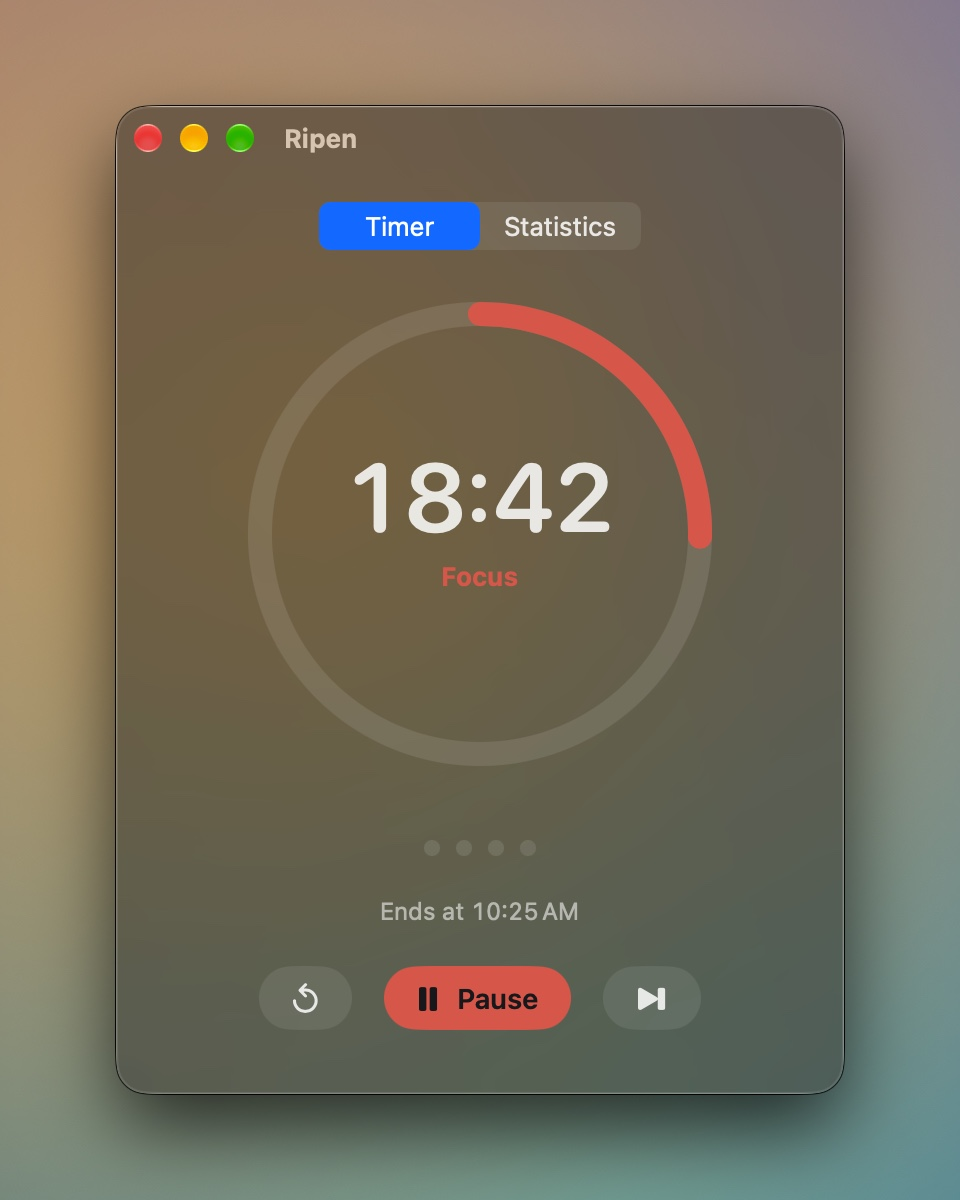
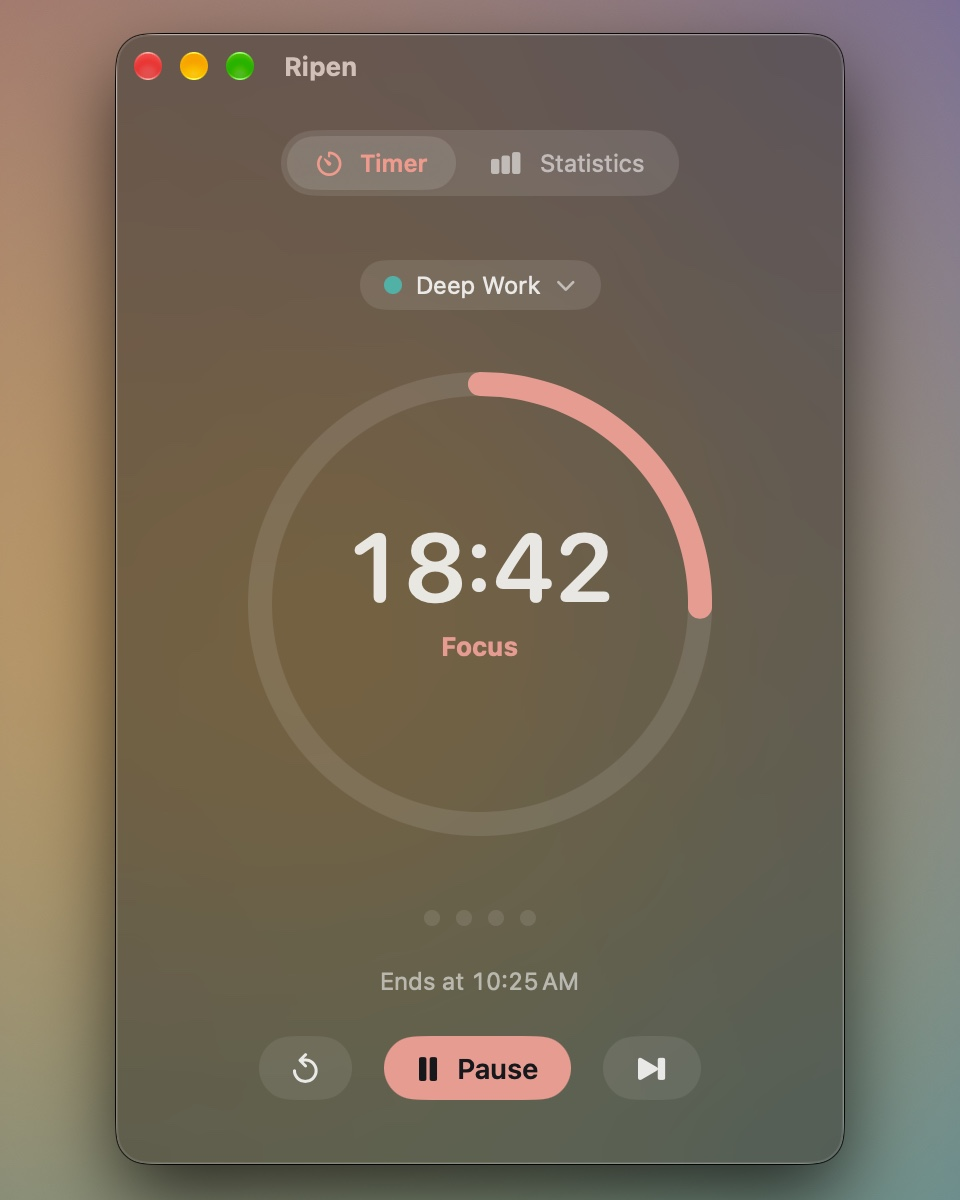
docs: refresh README features and screenshots for 0.2.0

diff --git a/README.md b/README.md
@@ -6,7 +6,7 @@
 
 **A little space for focus.**
 
-A native macOS Pomodoro timer with frosted glass, floating windows, and a home in your notch.
+A native macOS Pomodoro timer with projects, focus statistics, and a home in your notch.
 
 [![Latest release](https://img.shields.io/github/v/release/latteine1217/ripen?color=da443b)](https://github.com/latteine1217/ripen/releases/latest)
 [![macOS 14+](https://img.shields.io/badge/macOS-14%2B-000000?logo=apple&logoColor=white)](#install)
@@ -17,15 +17,51 @@ English · [繁體中文](README.zh-Hant.md)
 
 [Website (繁體中文 / English)](https://latteine1217.github.io/ripen/) · [Installation](#install) · [Features](#features) · [Releases](https://github.com/latteine1217/ripen/releases) · [Report an issue](https://github.com/latteine1217/ripen/issues)
 
-<img src="docs/images/en/showcase.png" width="1000" alt="Ripen in three presentations: the main timer window, the notch island, and an always-on-top floating window">
-
 </div>
 
-Keep your timer in view and your attention on your work. Ripen follows your focus-and-break rhythm, remembers where you put it, and keeps counting when you need a little longer. Your focus history stays on your Mac.
+> v0.2.0 is out · [Release notes](https://github.com/latteine1217/ripen/releases/tag/v0.2.0)
 
-> Download the latest version from [GitHub Releases](https://github.com/latteine1217/ripen/releases/latest). Once installed, **Check for Updates…** in the Ripen menu installs newer versions for you.
+<p align="center">
+  <img src="docs/images/en/main-white.jpg" width="560" alt="Ripen in White appearance with the Deep Work project selected">
+</p>
 
-## Highlights
+Keep your timer in view and your attention on your work. Ripen follows your focus-and-break rhythm, organizes your time by project, and turns your progress into a recap card. Your focus history stays on your Mac.
+
+## Features
+
+### Give each kind of work a project
+
+Work, reading, or something you are learning can each have a project and a color. Open the menu above the timer ring to choose a project, or type a name and choose a color to add one. Before you start, its total time and completed focus count appear below the menu.
+
+You can start with Uncategorized. Change projects during a focus to move the whole focus to the new project; a choice made during a break applies to the next focus.
+
+<p align="center">
+  <img src="docs/images/en/main.jpg" width="440" alt="Glass timer window with the Deep Work project above the ring">
+</p>
+
+### See where your time goes
+
+Statistics stacks your last seven days of focus time by project color, alongside today's focus count and minutes and each project's total. Open a project to see its total time, its last week and every completed focus, or choose a different color from the palette.
+
+If you no longer need a project, delete it from its detail page. After you confirm, its records move to Uncategorized, keeping their time and counts.
+
+<p align="center">
+  <img src="docs/images/en/stats.jpg" width="440" alt="Statistics overview with seven days of focus time by project color; demonstration data">
+  <img src="docs/images/en/project-detail.jpg" width="440" alt="Deep Work details with totals, color palette and completed focuses; demonstration data">
+  <br><sub>Illustrative focus history for demonstration, not real user data.</sub>
+</p>
+
+### Turn your progress into a recap card
+
+Every project with completed focuses, including Uncategorized, has a recap card showing total time, today's time, focus count, focus days and the last seven days. Open it from the project details, choose a square (1:1) or portrait (9:16) layout, and hide the project name if you like.
+
+Once the records are saved and their undo period has passed, save the card as a PNG, copy the image, or use the macOS share menu. Refresh the card if its records change after you open it. To post on a social platform, you can save the image and upload it yourself.
+
+<p align="center">
+  <img src="docs/images/en/recap.jpg" width="440" alt="Square recap card preview with image export controls; demonstration data">
+  <img src="docs/images/en/recap-portrait.jpg" width="440" alt="Portrait project recap card preview; demonstration data">
+  <br><sub>Recap cards use demonstration data, not real user records.</sub>
+</p>
 
 ### Shrink it to a floating window
 
@@ -46,36 +82,26 @@ Click the red button, or drag the main window up into the notch, and Ripen becom
   <img src="docs/images/en/notch-expanded.jpg" width="640" alt="Expanded notch island with controls">
 </p>
 
-### Overtime instead of interruption
+### Finish at your own pace
 
-When the countdown reaches zero, Ripen plays a sound and keeps counting as `+mm:ss` in a new color: teal for focus, orange for breaks. Press **Done** when you are ready, and the focus is recorded with its real length. For about three seconds the ring shows this focus's length and its project's total, then returns to the break as it is; until that break ends, a link beside the end time opens the project's recap card. The floating window and the notch island show the same summary in place of the time, and a small photo button after the phase name opens the card in its own window without leaving the floating window or the island. Time you spend away from your Mac is not counted as overtime.
+When the countdown reaches zero, Ripen plays a sound and keeps counting as `+mm:ss`: teal for focus, orange for breaks. Press **Done** when you are ready to record the focus's actual length. Time away from your Mac is not counted as overtime.
+
+The main window, floating window and notch island briefly show the time you just spent and your project's total. During the following break, you can open that project's recap card directly.
 
 <p align="center">
   <img src="docs/images/en/overtime.jpg" width="380" alt="Focus session in overtime showing +03:17 and a Done button">
 </p>
 
-### See your week
-
-The Statistics page shows today's focus count and minutes, a seven-day chart stacked by project color, and each project's total time. Open a project to see its totals, its last seven days and every completed focus, to pick its color from the preset palette, or to delete it; after you confirm, its focuses move to Uncategorized and keep counting there. Each project also has a recap card: its latest total, today's time, focus count, focus days and last seven days, in a square (1:1) or portrait (9:16) layout. You can hide the project name, then save the card as a PNG, copy the image, or share it through the macOS share menu once none of its focuses can still be undone. The share menu only lists services installed on your Mac; Instagram and Threads usually have none, so save or copy the image and upload it yourself. Ripen never posts for you. Everything is stored locally on your Mac.
-
-<p align="center">
-  <img src="docs/images/en/stats.jpg" width="380" alt="Statistics page with today's totals and a seven-day chart; demonstration data">
-</p>
-
-<p align="center"><sub>Illustrative focus history for demonstration, not real user data.</sub></p>
-
-## Features
+## Everyday controls and settings
 
 | Feature | Details |
 | :--- | :--- |
-| Your rhythm | 25-minute focus, 5-minute short break, 15-minute long break after every 4 focuses. Adjust each length from 1–180 minutes and the long-break interval from 1–12. |
-| Quick control | <kbd>⌥</kbd><kbd>⌘</kbd><kbd>P</kbd> to start or pause from any app, or record your own shortcut. In the main window: <kbd>⌘</kbd><kbd>S</kbd> to skip or finish, <kbd>⌘</kbd><kbd>R</kbd> to reset, <kbd>⌘</kbd><kbd>1</kbd> / <kbd>⌘</kbd><kbd>2</kbd> to switch between Timer and Statistics. Skip, reset and Done can be undone for 5 seconds from the countdown capsule or <kbd>⌘</kbd><kbd>Z</kbd>. |
-| Make it yours | Black, White, or Glass appearance; glass can follow the system or stay light or dark, with adjustable opacity and blur. System reminder sounds or silence, optional auto-start and open at login, and 12- or 24-hour end times. |
-| Projects | Pick a project from the menu above the timer ring, or add one by typing its name; each gets a color from a preset palette. Before you start, the project's total time and focus count show below the menu. Start uncategorized if you like, and change the project mid-focus to move the whole focus; a choice made during a break applies to the next focus. |
-| Always at hand | Three floating-window layouts, a notch island, and an optional menu bar countdown. |
-| A fresh start | The long-break count resets after two hours idle. |
-| Easy to learn | A short intro shows the tear-off, notch and resize gestures on first launch, with one-time tips where they apply. Replay it from Settings. |
-| Local and private | No account needed, and Ripen only goes online when you click **Check for Updates…**; a newer release is downloaded, verified against GitHub's checksum and installed only after you confirm. Focus history stays in `~/Library/Application Support/Ripen`. English and Traditional Chinese included. |
+| Your rhythm | Defaults to a 25-minute focus, a 5-minute short break and a 15-minute long break after every 4 focuses. Adjust each length from 1–180 minutes and the long-break interval from 1–12. The long-break count resets after two hours idle. |
+| Quick control | <kbd>⌥</kbd><kbd>⌘</kbd><kbd>P</kbd> to start or pause from any app, or record your own shortcut. In the main window: <kbd>⌘</kbd><kbd>S</kbd> to skip or finish, <kbd>⌘</kbd><kbd>R</kbd> to reset, <kbd>⌘</kbd><kbd>1</kbd> / <kbd>⌘</kbd><kbd>2</kbd> to switch between Timer and Statistics. |
+| Undo | Undo skip, reset or Done for 5 seconds from the countdown capsule or <kbd>⌘</kbd><kbd>Z</kbd>. |
+| Appearance and reminders | Black, White, or Glass appearance; glass can follow the system or stay light or dark, with adjustable opacity and blur. System reminder sounds or silence, an optional menu bar countdown, and 12- or 24-hour end times. |
+| Startup and guidance | Optional auto-start for the next phase and open at login. A first-launch intro shows the tear-off, notch and resize gestures; replay it from Settings. |
+| Local and private | No account needed. Focus history stays in `~/Library/Application Support/Ripen`, with English and Traditional Chinese interfaces. Ripen only goes online when you click **Check for Updates…**; updates are downloaded after confirmation and verified against GitHub's checksum before installation. |
 
 ## Install
 

diff --git a/README.zh-Hant.md b/README.zh-Hant.md
@@ -6,7 +6,7 @@
 
 **留一點空間，給專注。**
 
-原生 macOS 番茄鐘，以磨砂玻璃呈現，放在主視窗、懸浮窗，或你的螢幕瀏海。
+原生 macOS 番茄鐘，依分類累積專注，放在主視窗、懸浮窗，或你的螢幕瀏海。
 
 [![Latest release](https://img.shields.io/github/v/release/latteine1217/ripen?color=da443b)](https://github.com/latteine1217/ripen/releases/latest)
 [![macOS 14+](https://img.shields.io/badge/macOS-14%2B-000000?logo=apple&logoColor=white)](#安裝)
@@ -17,15 +17,51 @@
 
 [產品介紹（繁體中文 / English）](https://latteine1217.github.io/ripen/) · [安裝方式](#安裝) · [完整功能](#功能) · [版本下載](https://github.com/latteine1217/ripen/releases) · [問題回報](https://github.com/latteine1217/ripen/issues)
 
-<img src="docs/images/zh-Hant/showcase.png" width="1000" alt="Ripen 的三種呈現：主視窗計時、瀏海島，以及永遠置頂的懸浮窗">
-
 </div>
 
-讓計時留在視線裡，把注意力留給手上的事。Ripen 跟著專注與休息的節奏走，記住你放的位置；需要多一點時間時，就繼續計時。專注紀錄只留在你的 Mac 上。
+> v0.2.0 已發布 · [更新內容](https://github.com/latteine1217/ripen/releases/tag/v0.2.0)
 
-> 最新版本請到 [GitHub Releases](https://github.com/latteine1217/ripen/releases/latest) 下載。安裝後可從 Ripen 選單的「檢查更新⋯」安裝之後的新版本。
+<p align="center">
+  <img src="docs/images/zh-Hant/main-white.jpg" width="560" alt="Ripen 暖瓷白主視窗，已選擇深度工作分類">
+</p>
 
-## 特色
+讓計時留在視線裡，把注意力留給手上的事。Ripen 跟著專注與休息的節奏走，讓你依分類累積投入、回顧一週，再把成果存成一張卡。所有專注紀錄只留在你的 Mac 上。
+
+## 功能
+
+### 為每一種投入建立分類
+
+工作、閱讀，或正在學的新事物，都可以有自己的分類與代表色。在計時圓環上方打開分類選單，選擇既有分類，或輸入名稱並從色盤選色來新增。開始前，選單下方會顯示這個分類的累積時間與完成次數。
+
+可以選「未分類」直接開始。專注途中切換分類，整次專注會歸入新分類；休息時選擇的分類則用於下一次專注。
+
+<p align="center">
+  <img src="docs/images/zh-Hant/main.jpg" width="440" alt="玻璃外觀計時頁，圓環上方顯示深度工作分類">
+</p>
+
+### 看見時間花在哪裡
+
+統計頁以分類代表色堆疊最近 7 天的專注時間，並列出今天的完成次數、分鐘數與各分類的累積。點進分類，就能查看它的總投入、最近一週與每一筆完成紀錄，也能從色盤更換代表色。
+
+不再需要某個分類時，可在詳情頁刪除；確認後，原有紀錄會移到「未分類」，時間與次數都會保留。
+
+<p align="center">
+  <img src="docs/images/zh-Hant/stats.jpg" width="440" alt="統計總覽，依分類代表色呈現七日專注時間；展示資料">
+  <img src="docs/images/zh-Hant/project-detail.jpg" width="440" alt="深度工作分類詳情，包含累積、色盤與完成紀錄；展示資料">
+  <br><sub>統計畫面使用展示資料，非真實使用者紀錄。</sub>
+</p>
+
+### 把累積做成一張成果卡
+
+每個有完成紀錄的分類（含未分類）都有一張成果卡，呈現累積時間、今日投入、完成次數、專注天數與最近 7 天。從分類詳情開啟，選擇方形（1:1）或直式（9:16）版型，也可以隱藏分類名稱。
+
+紀錄儲存完成且已過復原期限後，即可存成 PNG、複製圖片，或使用 macOS 分享選單。若開卡後紀錄有變動，重新整理即可更新；要貼到社群平台，也可以先存圖再自行上傳。
+
+<p align="center">
+  <img src="docs/images/zh-Hant/recap.jpg" width="440" alt="方形成果卡預覽與圖片匯出操作；展示資料">
+  <img src="docs/images/zh-Hant/recap-portrait.jpg" width="440" alt="直式分類成果卡預覽；展示資料">
+  <br><sub>成果卡使用展示資料，非真實使用者紀錄。</sub>
+</p>
 
 ### 縮成懸浮窗
 
@@ -46,36 +82,26 @@
   <img src="docs/images/zh-Hant/notch-expanded.jpg" width="640" alt="展開的瀏海島與控制按鈕">
 </p>
 
-### 超時，而不是打斷
+### 按自己的步調完成
 
-倒數到 0 時 Ripen 會播提示音，接著換個顏色以 `+mm:ss` 繼續計時：專注是青綠色，休息是橘色。準備好了再按「完成」，這次專注會以實際長度記錄。圓環中央會顯示約 3 秒的本次時間與分類累積，再回到休息的實際狀態；這段休息結束前，結束時刻旁有入口可打開該分類的成果卡。懸浮窗與瀏海島會在時間的位置顯示同樣的摘要，階段名稱後的照片小按鈕會另開視窗顯示成果卡，懸浮窗或瀏海島留在原處。離開電腦的時間不算進超時。
+倒數到 0 時，Ripen 會播提示音，再以 `+mm:ss` 繼續計時：專注是青綠色，休息是橘色。準備好了再按「完成」，這次專注會以實際長度記錄，離開電腦的時間不算進超時。
+
+完成後，主視窗、懸浮窗與瀏海島都會短暫顯示本次投入與分類累積。接下來的休息期間，可以直接開啟剛完成分類的成果卡。
 
 <p align="center">
   <img src="docs/images/zh-Hant/overtime.jpg" width="380" alt="專注超時，顯示 +03:17 與完成按鈕">
 </p>
 
-### 看見這一週
-
-統計頁顯示今天的專注次數與分鐘數、依分類代表色堆疊的最近 7 天長條圖，以及各分類的累積時間。點入分類可查看它的累積、最近 7 天與每一筆完成紀錄，從預設色盤更換代表色，或刪除分類；確認後它的專注改為未分類，照樣計入統計。每個分類也有一張成果卡：以方形（1:1）或直式（9:16）版型呈現該分類最新的累積時間、今日投入、完成次數、專注天數與最近 7 天。可以隱藏分類名稱；分類裡的完成都過了復原期限後，即可儲存為 PNG、複製圖片，或透過 macOS 分享選單分享。分享選單只列出這台 Mac 上已安裝的服務，Instagram 與 Threads 通常沒有入口，請先儲存或複製圖片再自行上傳。Ripen 不會替你發文。所有資料只存在你的 Mac 上。
-
-<p align="center">
-  <img src="docs/images/zh-Hant/stats.jpg" width="380" alt="統計頁：今日總計與最近 7 天長條圖；數據為展示資料">
-</p>
-
-<p align="center"><sub>統計畫面使用展示資料，非真實使用者紀錄。</sub></p>
-
-## 功能
+## 日常操作與設定
 
 | 功能 | 說明 |
 | :--- | :--- |
-| 你的節奏 | 專注 25 分、短休息 5 分，每 4 次專注後長休息 15 分。各段長度可設為 1–180 分，長休息間隔可設為 1–12 次。 |
-| 快速操作 | 在任何 App 中按 <kbd>⌥</kbd><kbd>⌘</kbd><kbd>P</kbd> 開始或暫停，也可錄製自己的組合。主視窗支援 <kbd>⌘</kbd><kbd>S</kbd> 跳過或完成、<kbd>⌘</kbd><kbd>R</kbd> 重設，<kbd>⌘</kbd><kbd>1</kbd>／<kbd>⌘</kbd><kbd>2</kbd> 切換計時頁與統計頁。跳過、重設與完成之後 5 秒內，可以按倒數膠囊或 <kbd>⌘</kbd><kbd>Z</kbd> 復原。 |
-| 自訂習慣 | 可選黑、白、玻璃外觀；玻璃可跟隨系統或指定深淺色，並調整不透明度與模糊。另可選擇系統提示音或靜音、自動開始下一段、登入時開啟，以及 12 或 24 小時制的結束時刻。 |
-| 分類 | 在計時圓環上方的選單選擇分類，或輸入名稱新增，系統會從預設色盤分配代表色。開始前，選單下方顯示該分類的累積時間與完成次數。可以不選分類直接開始；專注途中更正分類時整次專注改歸新分類，休息中的選擇只影響下一次。 |
-| 隨時看得到 | 三種懸浮窗版面、瀏海島，以及可選擇顯示的選單列倒數。 |
-| 休息後重新開始 | 閒置兩小時後，長休息的計數歸零。 |
-| 容易上手 | 第一次開啟時有簡短的手勢介紹（拖出懸浮窗、收進瀏海、調整尺寸），並在用到時出現一次性提示；可從設定再看一次。 |
-| 本機與隱私 | 不需要帳號；只有按「檢查更新⋯」時才連網，有新版時經你確認才下載，核對 GitHub 提供的檢查碼後安裝。專注紀錄存在 `~/Library/Application Support/Ripen`，提供英文與繁體中文介面。 |
+| 你的節奏 | 預設專注 25 分、短休息 5 分，每 4 次專注後長休息 15 分。各段長度可設為 1–180 分，長休息間隔可設為 1–12 次；閒置兩小時後，長休息的計數歸零。 |
+| 快速操作 | 在任何 App 中按 <kbd>⌥</kbd><kbd>⌘</kbd><kbd>P</kbd> 開始或暫停，也可錄製自己的組合。主視窗支援 <kbd>⌘</kbd><kbd>S</kbd> 跳過或完成、<kbd>⌘</kbd><kbd>R</kbd> 重設，<kbd>⌘</kbd><kbd>1</kbd>／<kbd>⌘</kbd><kbd>2</kbd> 切換計時頁與統計頁。 |
+| 復原操作 | 跳過、重設與完成之後 5 秒內，可以按倒數膠囊或 <kbd>⌘</kbd><kbd>Z</kbd> 復原。 |
+| 外觀與提醒 | 黑、白、玻璃外觀；玻璃可跟隨系統或指定深淺色，並調整不透明度與模糊。可選系統提示音或靜音、選單列倒數，以及 12 或 24 小時制的結束時刻。 |
+| 啟動與引導 | 可自動開始下一段、登入時開啟。首次啟動有拖出懸浮窗、收進瀏海與調整尺寸的手勢介紹，可從設定重播。 |
+| 本機與隱私 | 不需要帳號；專注紀錄存在 `~/Library/Application Support/Ripen`，提供英文與繁體中文介面。只有按「檢查更新⋯」時才連網，更新經確認後下載，核對 GitHub 提供的檢查碼後安裝。 |
 
 ## 安裝
 
